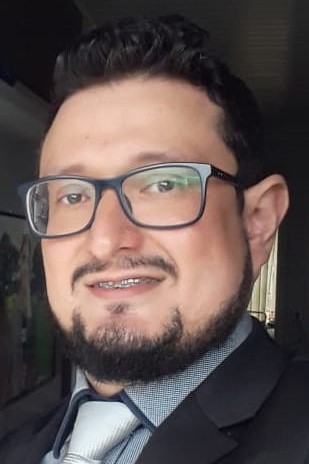
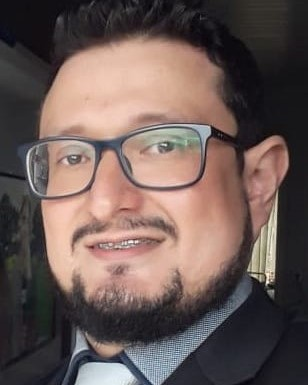
renponsvidade

diff --git a/styles/style.css b/styles/style.css
@@ -1,9 +1,15 @@
 @import url('https://fonts.googleapis.com/css2?family=Krona+One&family=Monteserratwght@400;600&&display=swap');
 
 :root {
-  --cor--primaria: #000000
-  --cor--secundaria: #f6f6f6
-  --cor-terciaria:#22D4FD
+  --cor--primaria: #252435;
+  --cor--secundaria: #c0f5f7;
+  --cor--terciaria:#3af0f7;
+  --cor--hover:#41455f;
+  --cor-rodape--hover:#493183;
+  --cor--metas:#3af0f7;
+
+  --fonte--primaria:'Krona One', sans-serif;
+  --fonte--secundaria:'Monteserrat', sans-serif;
 }
 
 * {
@@ -11,54 +17,54 @@
   padding: 0;
 }
 body {
-  /* height: 100vh; */
-  box-sizing: border-box;
-  background-color: #000000;
-  color: #f6f6f6;
+  box-sizing: border-box;  
+  background-color:var(--cor--primaria); 
+  color: var(--cor--secundaria);
 }
 .cabecalho{
   padding: 2% 0% 0% 15%;
 }
 .cabecalho__menu{
   display: flex;
-  gap:80px
+  gap: 80px;
 }
 .cabecalho__menu__link{
-  font-size: 24px;
-  font-family: 'Monteserrat', sans-serif;
+  font-size: 1.5rem;
+  font-family: var(--fonte--secundaria);
   font-weight: 600;
-  color:#22D4FD;
+  color:var(--cor--terciaria);
   text-decoration: none;
 }
 .apresentacao {
-  margin: 3% 15%;
+  margin: 5% 15%;
   display: flex;
   align-items: center;
-  justify-content: space-between ;
+  justify-content: space-between;
+  gap:82px;
 }
 .apresentacao__conteudo {
-  width: 615px;
+  width: 50%;
   display: flex; 
   flex-direction: column; 
   gap: 40px;
 }
 .apresentacao__conteudo__titulo {
-  font-size: 32px;
-  font-family: 'Krona One', sans-serif;
+  font-size: 2.25rem;
+  font-family: var(--fonte--secundaria);
   
 }
 .destaque{
-  color: #22D4FD;  
+  color: var(--cor--terciaria);  
 }
 .apresentacao__conteudo__texto {
-  font-size: 24px;
-  font-family: 'Monteserrat', sans-serif;
+  font-size: 1.5rem;
+  font-family: var(--fonte--secundaria);
 }
 .apresentacao__conteudo__texto__metas{  
-  font-size: 28px;
-  font-family: 'Krona One', sans-serif;
+  font-size: 1.75rem;
+  font-family: var(--fonte--primaria);
   font-weight: 450;
-  color: #22D4FD;
+  color: var(--cor--terciaria);
     
 }
 .apresentacao__links{
@@ -68,45 +74,69 @@ body {
   align-items: center;
   gap: 32px;
 }
-.apresentacao__links__link {
-  /* background-color: #22D4FD; */
+.apresentacao__links__navegacao {
   display: flex;
   justify-content: center;
   gap: 16px;
-  border: 4px solid #22D4FD;
-  width: 378px ;
+  border: 4px solid var(--cor--terciaria);
+  width:60% ;
   text-align: center;
   border-radius: 8px;
-  font-size: 24px;
+  font-size: 1.5rem;
   padding: 21.5px 0;  
-  color:#f6f6f6;
-  font-family: 'Monteserrat', sans-serif;
+  color:var(--cor--secundaria);
+  font-family: var(--fonte--secundaria);
   font-weight: 600;
   text-decoration: none;
 }
 .apresentacao__links__link:hover {
-  border: 4px solid #f6f8f8;
-  background-color: #353342;
-  color: #f6f8f8;
+  border: 4px solid var(--cor--secundaria);
+  background-color: var(--cor--hover);
+  color: var(--cor--secundaria);
 }
 
 .apresentacao__links__subtitulo{
-  font-family: 'Krona One', sans-serif;
+  font-family: var(--fonte--primaria);
   font-weight: 400;
-  font-size: 34px;
+  font-size: 2,125rem;
+}
+.apresentacao__conteudo__texto__metas:hover{
+  font-weight: 500;
+  color: var(--cor--metas); 
+  
 }
 .rodape {
-  color:#000000;
-  background-color: #22D4FD;
+  color:var(--cor--primaria);
+  background-color: var(--cor--terciaria);
   padding: 24px;
   text-align: center;
-  font-family: 'Monteserrat', sans-serif;
-  font-size: 24px;
-  font-weight: 400;
+  font-family: var(--fonte--secundaria);
+  font-size: 1,5rem;
+  font-weight: 450;
+}
+.apresentacao__imagen {
+  width: 40%;
 }
 .rodape:hover{  
-  color: #fa06d1;
-  font-size: 24px;
-  font-family: 'Monteserrat', sans-serif;
-  font-weight: 500;  
+  color: var(--cor-rodape--hover);
+  font-size: 1.5rem;
+  font-family: var(--fonte--secundaria);
+  font-weight: 1000;
+   
+}
+@media(max-width: 1200px) {
+  
+  .cabecalho{
+    padding: 10%;
+  }
+  .cabecalho__menu{
+    justify-content: center;
+  }
+  .apresentacao{
+    flex-direction: column-reverse;
+    padding: 5% ;
+    }
+    .apresentacao__conteudo{
+      width: auto;
+    }
 }

diff --git a/index.html b/index.html
@@ -8,7 +8,8 @@
   <link rel="stylesheet" href="./styles/style.css">
 </head>
 <body>
-  <header class="cabecalho">
+  
+  <header class="cabecalho">    
       <nav class="cabecalho__menu">
           <a  class="cabecalho__menu__link" href="index.html">Home</a>
           <a  class="cabecalho__menu__link" href="about.html" >Sobre min</a>
@@ -23,15 +24,15 @@
           Sou estudante de ADS em transição para carreira DEV.</p>
           <div class="apresentacao__links">
             <h2 class="apresentacao__links__subtitulo">Acesse minhas redes:</h2>            
-            <a class="apresentacao__links__link" 
+            <a class="apresentacao__links__navegacao" 
             href="https://github.com/raffaelsilvadev"> <img src="./assets/github.png">Github</a>
-            <a class="apresentacao__links__link" 
+            <a class="apresentacao__links__navegacao" 
             href="https://www.linkedin.com/in/rafael-d-62a7a81a6/"><img src="./assets/linkedin.png">Linkedin</a>
-            <a class="apresentacao__links__link" 
+            <a class="apresentacao__links__navegacao" 
             href="https://instagran.com/raffaeldasillva/"> <img src="./assets/instagram.png">Instagran</a>
           </div>
     </section>
-    <img src="./assets/silva.JPG" alt="Foto Rafael da Silva">
+    <img class="apresentacao__imagen" src="./assets/silva.JPG" alt="Foto Rafael da Silva">
   </main>
   <footer>
     <p class="rodape"> &copy; By @raffaelsilvadev </p>

diff --git a/about.html b/about.html
@@ -36,7 +36,7 @@
                 enfâse (Html, Css, Javascript e React JS).
               </p>
         </section>
-        <img src="./assets/silva.JPG" alt="Foto Rafael da Silva">
+        <img class="apresentacao__imagen" src="./assets/silva.JPG" alt="Foto Rafael da Silva">
       </main>
         <footer>
           <p class="rodape"> &copy; By @raffaelsilvadev </p>
